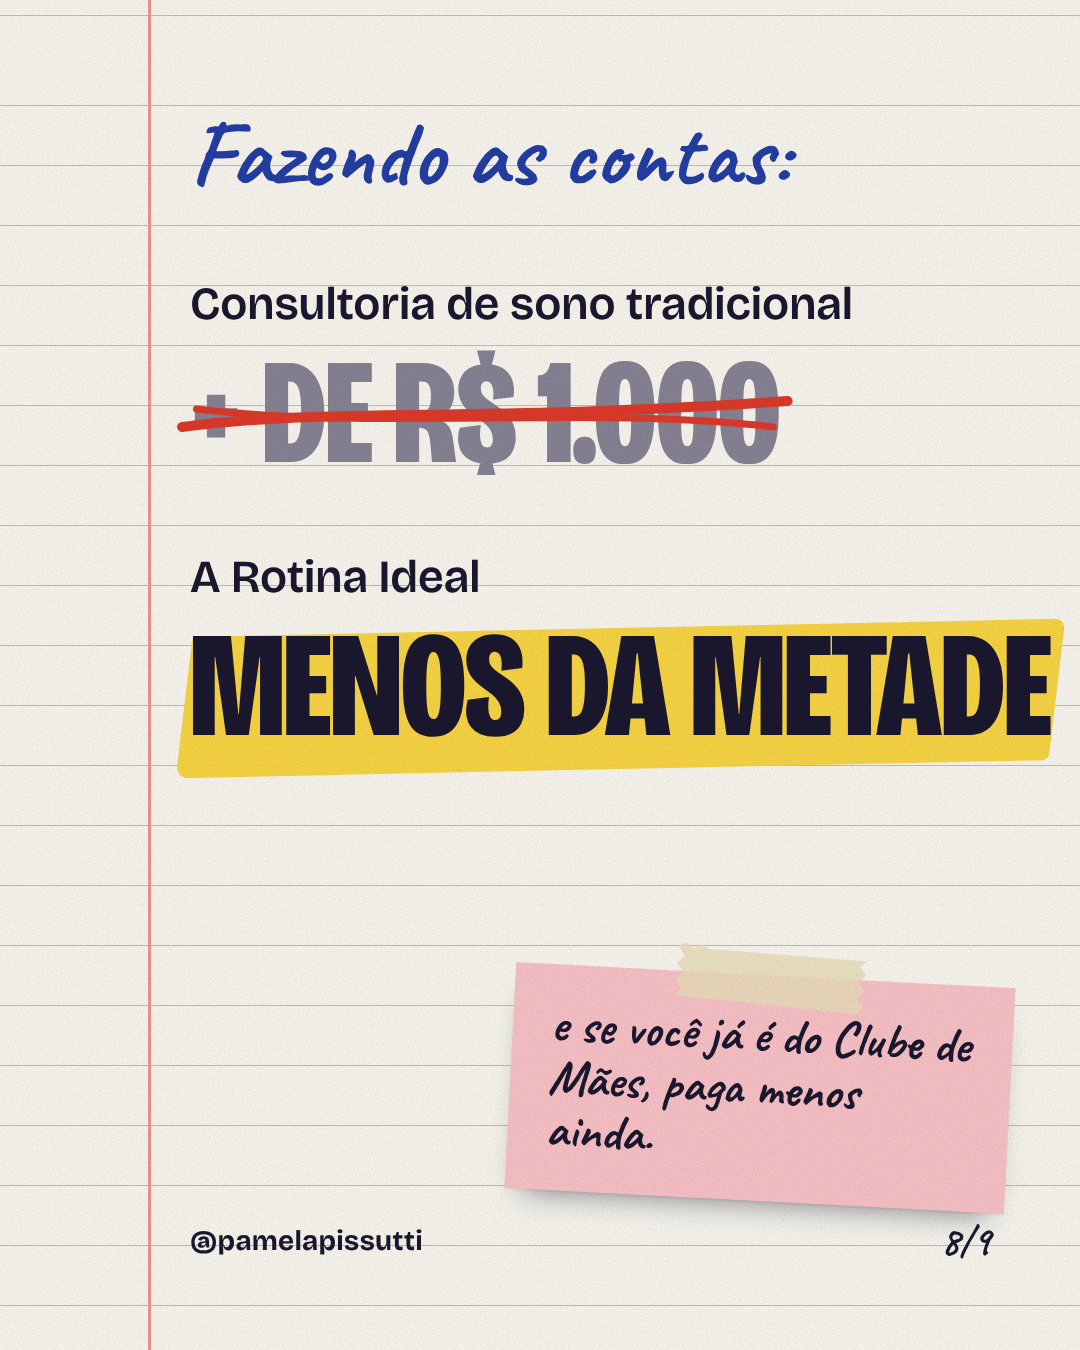
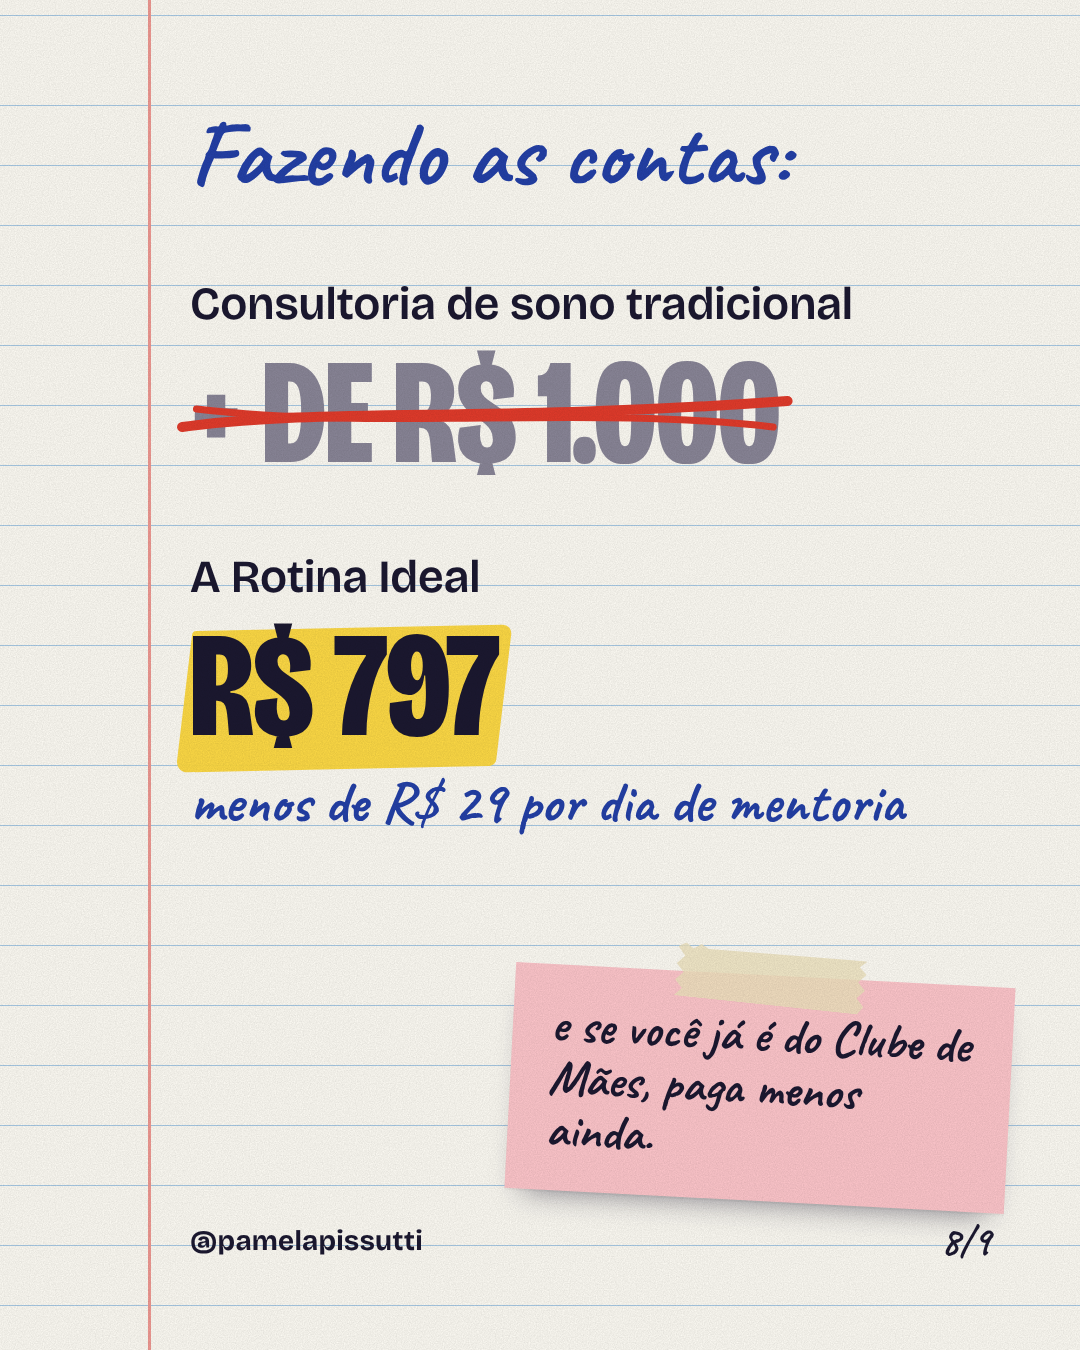
Fix Rotina Ideal price comparison
R$ 797 is not less than half of R$ 1.000. Slide 8 now shows the real
price and the per-day cost (under R$ 29 a day over 28 days), and the
call to action offers the link instead of the price.

Claude-Session: https://claude.ai/code/session_016EYGA2exXZN97MRW6zcQJK

Changed region(s): [[0.1528, 0.4356, 1.0, 0.6222]]

diff --git a/instagram/rotina-ideal-venda/slides.html b/instagram/rotina-ideal-venda/slides.html
@@ -467,6 +467,7 @@
   .contas .valor { font-size: 150px; margin-top: 14px; position: relative; display: inline-block; }
   .contas .riscado { color: #8A8698; }
   .contas .valor.destaque { color: var(--tinta); }
+  .contas .por-dia { font-size: 58px; color: var(--caneta); margin-top: 22px; }
   .contas .postit {
     position: absolute;
     right: 70px;
@@ -616,7 +617,8 @@
   </div>
   <div class="linha-conta">
     <p class="rotulo">A Rotina Ideal</p>
-    <span class="grito valor destaque"><mark>menos da metade</mark></span>
+    <span class="grito valor destaque"><mark>R$ 797</mark></span>
+    <p class="mao por-dia">menos de R$ 29 por dia de mentoria</p>
   </div>
   <div class="postit mao">
     <span class="fita"></span>
@@ -631,7 +633,7 @@
   <h2 class="grito">Comenta<br><span class="palavra">Sono</span></h2>
   <div class="mao convite">
     <svg width="120" height="110" viewBox="0 0 120 110" style="overflow:visible;flex:none"><path d="M10 8 C 6 60, 40 92, 104 88" fill="none" stroke="#E33B2B" stroke-width="7" stroke-linecap="round"/><path d="M82 66 L106 88 L80 104" fill="none" stroke="#E33B2B" stroke-width="7" stroke-linecap="round" stroke-linejoin="round"/></svg>
-    <span>que eu te mando no direct <b>como funciona e o valor</b></span>
+    <span>que eu te mando no direct <b>como funciona e o link pra entrar</b></span>
   </div>
   <div class="comenta">
     <span class="fita"></span>

diff --git a/instagram/rotina-ideal-venda/montador.html b/instagram/rotina-ideal-venda/montador.html
@@ -217,9 +217,9 @@ Foi por isso que eu criei A Rotina Ideal: uma mentoria particular comigo, em que
 ✔ Você recebe a rotina personalizada, com as orientações
 ✔ E coloca em prática comigo durante os 28 dias
 
-Consultoria de sono tradicional passa de R$ 1.000. A Rotina Ideal custa menos da metade. E quem já é do Clube de Mães paga menos ainda 💛
+Consultoria de sono tradicional passa de R$ 1.000. A Rotina Ideal sai por R$ 797, menos de R$ 29 por dia de mentoria. E quem já é do Clube de Mães paga menos ainda 💛
 
-💬 Comenta SONO que eu te mando no direct como funciona e o valor (me segue antes, pra mensagem não cair nas solicitações).
+💬 Comenta SONO que eu te mando no direct como funciona e o link pra entrar (me segue antes, pra mensagem não cair nas solicitações).
 
 #sonodobebe #rotinaideal #mentoriadosono #sonorespeitoso #bebenaodorme #bebeacordamuito #janelasdesono #maternidadereal #maedeprimeiraviagem #pamelapissutti</pre>
     <div class="linha">

diff --git a/instagram/rotina-ideal-venda/legenda.md b/instagram/rotina-ideal-venda/legenda.md
@@ -15,9 +15,9 @@ Foi por isso que eu criei A Rotina Ideal: uma mentoria particular comigo, em que
 ✔ Você recebe a rotina personalizada, com as orientações
 ✔ E coloca em prática comigo durante os 28 dias
 
-Consultoria de sono tradicional passa de R$ 1.000. A Rotina Ideal custa menos da metade. E quem já é do Clube de Mães paga menos ainda 💛
+Consultoria de sono tradicional passa de R$ 1.000. A Rotina Ideal sai por R$ 797, menos de R$ 29 por dia de mentoria. E quem já é do Clube de Mães paga menos ainda 💛
 
-💬 Comenta SONO que eu te mando no direct como funciona e o valor (me segue antes, pra mensagem não cair nas solicitações).
+💬 Comenta SONO que eu te mando no direct como funciona e o link pra entrar (me segue antes, pra mensagem não cair nas solicitações).
 
 #sonodobebe #rotinaideal #mentoriadosono #sonorespeitoso #bebenaodorme #bebeacordamuito #janelasdesono #maternidadereal #maedeprimeiraviagem #pamelapissutti
 
@@ -25,7 +25,7 @@ Consultoria de sono tradicional passa de R$ 1.000. A Rotina Ideal custa menos da
 
 ## Antes de postar, confira
 
-- **Valores (slide 8 e legenda):** usei o que está no seu site: consultoria tradicional acima de R$ 1.000, A Rotina Ideal a R$ 447 e R$ 417 para quem é do Clube. Se o preço mudou e passou de R$ 500, troque "menos da metade" por outra comparação.
+- **Valores (slide 8 e legenda):** R$ 797 pelos 28 dias de mentoria (797 ÷ 28 = R$ 28,46 por dia). A frase "quem já é do Clube de Mães paga menos ainda" vem do seu site: confirme se o desconto para quem é do Clube continua valendo.
 - **Slide 7:** sem foto, ele sai com o cartão "oi, eu sou a Pâmela". Uma foto sua com bebê ou sorrindo para a câmera costuma converter mais; dá para colocar na página de montagem.
 - **Prova social:** não coloquei número de mães atendidas porque o site traz números diferentes em páginas diferentes (+250, +300, +1.000). Se quiser, me diga o número certo que eu incluo no slide 7.
 - **Depoimentos:** um print real de mensagem de mãe aumenta muito a conversão. Se você tiver um com autorização, dá para virar um slide 8,5.
@@ -34,7 +34,7 @@ Consultoria de sono tradicional passa de R$ 1.000. A Rotina Ideal custa menos da
 
 > Oi, [nome]! Aqui é a Pâmela 💛 Vi que você comentou SONO. Me conta: quantos meses tem o seu bebê e o que mais tá pegando nas noites aí?
 
-Deixe o valor e o link para depois da resposta dela: primeiro escute, depois mostre como A Rotina Ideal resolve aquele caso específico.
+Deixe o link para depois da resposta dela: primeiro escute, depois mostre como A Rotina Ideal resolve aquele caso específico.
 
 ## Texto alternativo das imagens
 
@@ -45,5 +45,5 @@ Deixe o valor e o link para depois da resposta dela: primeiro escute, depois mos
 5. "Foi por isso que eu criei A Rotina Ideal: mentoria particular, rotina feita pro seu bebê, 28 dias de mentoria, sem promessa milagrosa."
 6. "Como funciona: você conta sobre o bebê, eu analiso o caso, você recebe a rotina personalizada e coloca em prática comigo por 28 dias."
 7. "Prazer, Pâmela Pissutti: mentora de mães, mãe também, pós-graduanda em neurociência do sono infantil."
-8. "Fazendo as contas: consultoria de sono tradicional custa mais de R$ 1.000; A Rotina Ideal custa menos da metade."
-9. "Comenta SONO que eu te mando no direct como funciona e o valor."
+8. "Fazendo as contas: consultoria de sono tradicional custa mais de R$ 1.000; A Rotina Ideal custa R$ 797, menos de R$ 29 por dia de mentoria."
+9. "Comenta SONO que eu te mando no direct como funciona e o link pra entrar."
